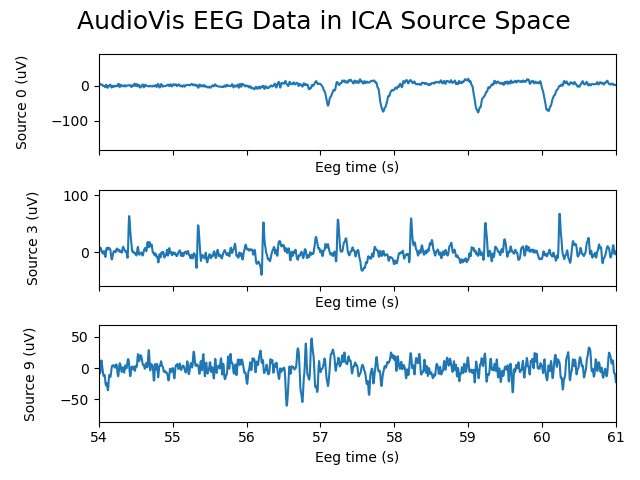
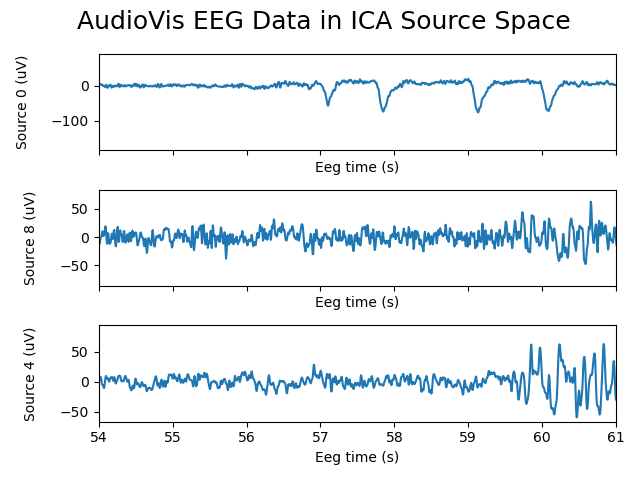
adding comments

diff --git a/test_remove_audvis_blinks.py b/test_remove_audvis_blinks.py
@@ -35,6 +35,11 @@ data_directory = './AudVisData/'
 channels_to_plot = ['Fpz','Cz','Iz']
 data = rmv.load_data(data_directory, channels_to_plot)
 
+"""
+It appears a blink artifact occurrs at t=57.1s. It is more pronounced on channel FPz 
+and sutle on the other two channels, perhaps convolved with other artifacts
+"""
+
 #%%
 # Part 2 Plot ICA Components
 eeg = data['eeg']
@@ -48,14 +53,20 @@ components_to_plot = [0,1,2,3,4,5,6,7,8,9]
 #Plot ICA components
 rmv.plot_components(mixing_matrix,channels,components_to_plot) 
 
+"""
+Components 0 and 8 appear to be ocular artifacts due to the increased shading in the 
+frontal area. Component 9 also exhibits EOG artifacts characteristics as lateral eye movemtns
+due to the increased shading in the topo map closer to the temples
+""" 
+
 #%%
 # Part 3 - Source Activity
-sources_to_plot = [0, 3, 9]
+sources_to_plot = [0, 8, 4]
 source_activations = rmv.get_sources(eeg, unmixing_matrix, fs, sources_to_plot)
 #%%
 # Part 4 - Remove Sources. Make two calls. One to clean-out sources identified and one without.
 # Sources to be removed 1 -> Fpz, 29 -> Cz
-sources_to_remove = [1, 29]
+sources_to_remove = [0,8]
 cleaned_eeg = rmv.remove_sources(source_activations, mixing_matrix, sources_to_remove)
 
 sources_to_remove = []
@@ -64,3 +75,16 @@ reconstructed_eeg = rmv.remove_sources(source_activations, mixing_matrix, source
 # Part 5 - Compare reconstructions
 rmv.compare_reconstructions(eeg, reconstructed_eeg, cleaned_eeg, fs, channels, channels_to_plot)
 
+"""
+By comparisson we can see that artifacts are mostly removed from channel "Fpz", but interestely
+reconstructed data also seems to be affected equally. The transformation of the mixing and unmixing 
+matrix in this case did not results in a accurate representation of the original signals. 
+Channels Cz also experienced removal of some of the spike artifacs.
+The last channel had the least effect of artifact removal from  ICA components. 
+
+Without looking at the comparisson plot, the electrodes that would be mostly affected by removing artifacts
+are the ones spacially located closer to the activation source.
+
+
+
+"""

diff --git a/remove_audvis_blinks.py b/remove_audvis_blinks.py
@@ -8,10 +8,9 @@ Dr. David Jangraw
 UPDATE Module Description:
 
 
-This module provides functions to process ...(e.g Steady State Visual Evoked Potential signals.
-The module will analyze the SSVEP data, generate predicted labels, compute accuracy and
-information tranfer rate. The module also implements function to plot a confusion matrix
-for accuracy and ITRgenerates, and predictor histograms.)
+This module provides functions to process audio visual eeg signals.
+The module will plot ICA componets, obtain souce activations from raw data, remove
+selected sources and plot and compare the reconstructed signals.
 """
 
 # Import Statements
@@ -148,7 +147,7 @@ def remove_sources(source_activations, mixing_matrix, sources_to_remove):
     # Zero-out specific sources
     if sources_to_remove:
         for source in sources_to_remove:
-            source_activations[source, :] = 0
+            source_activations[source,:] = 0
         
     # Transform back into electrode space
     cleaned_eeg = np.matmul(mixing_matrix, source_activations)
